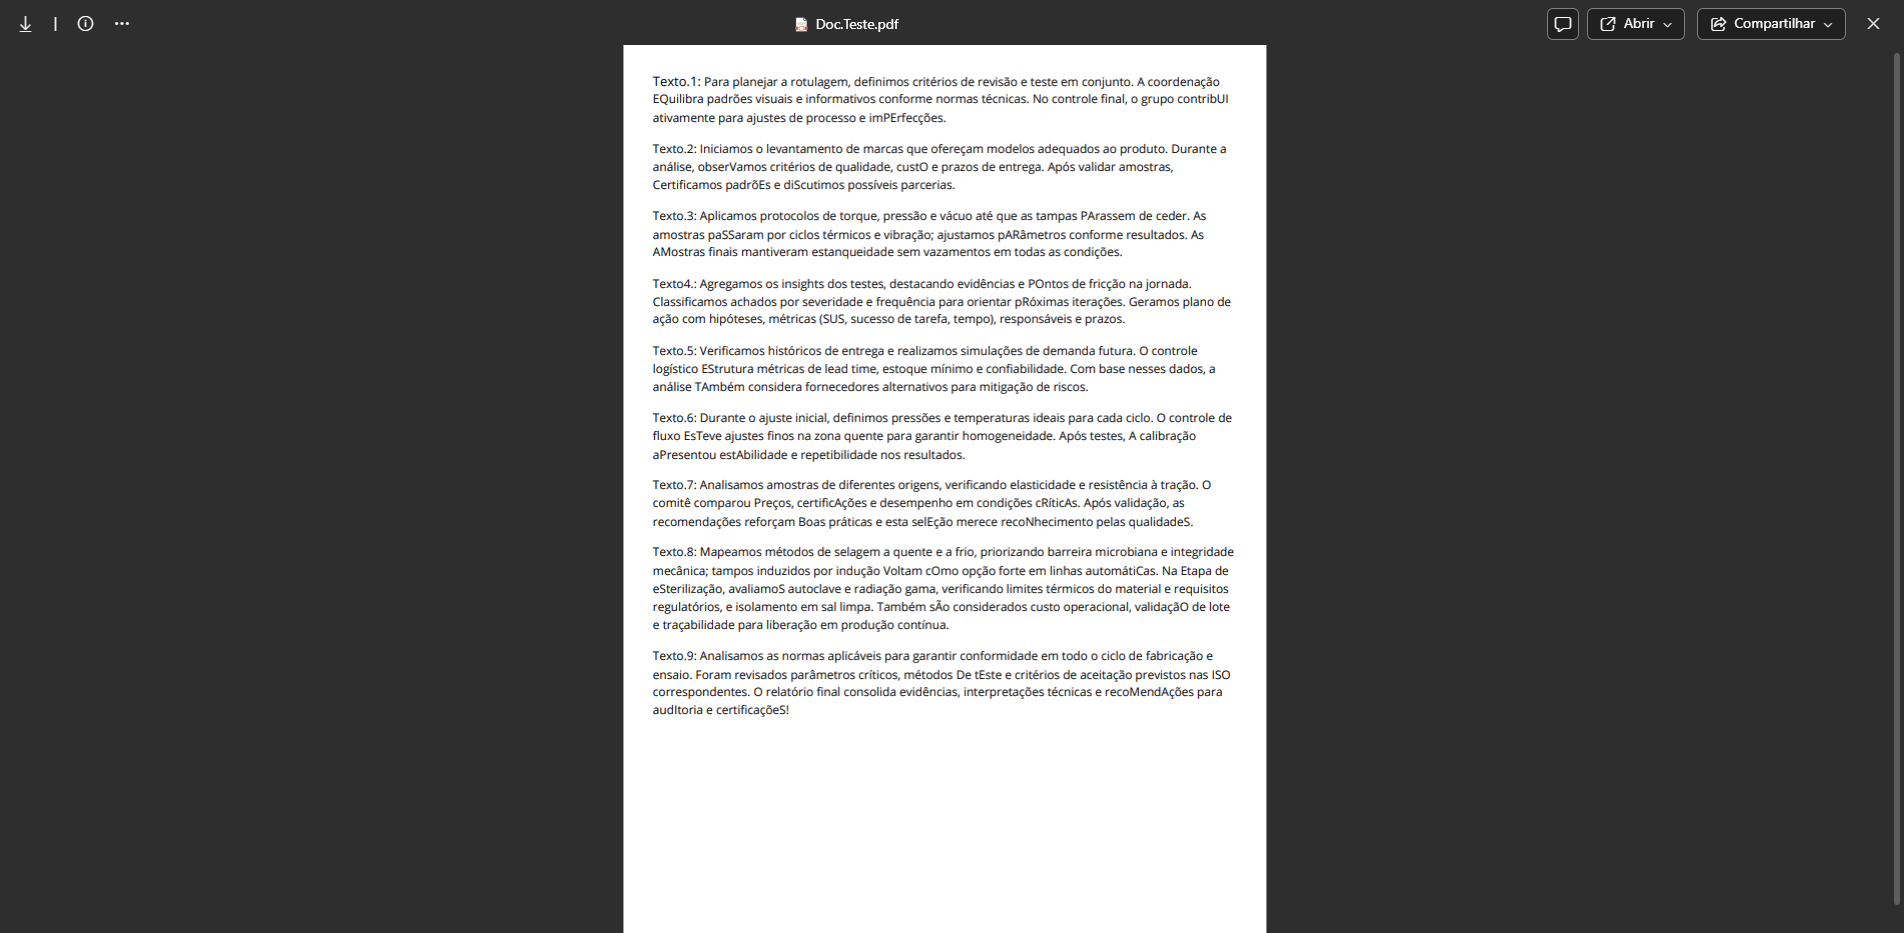
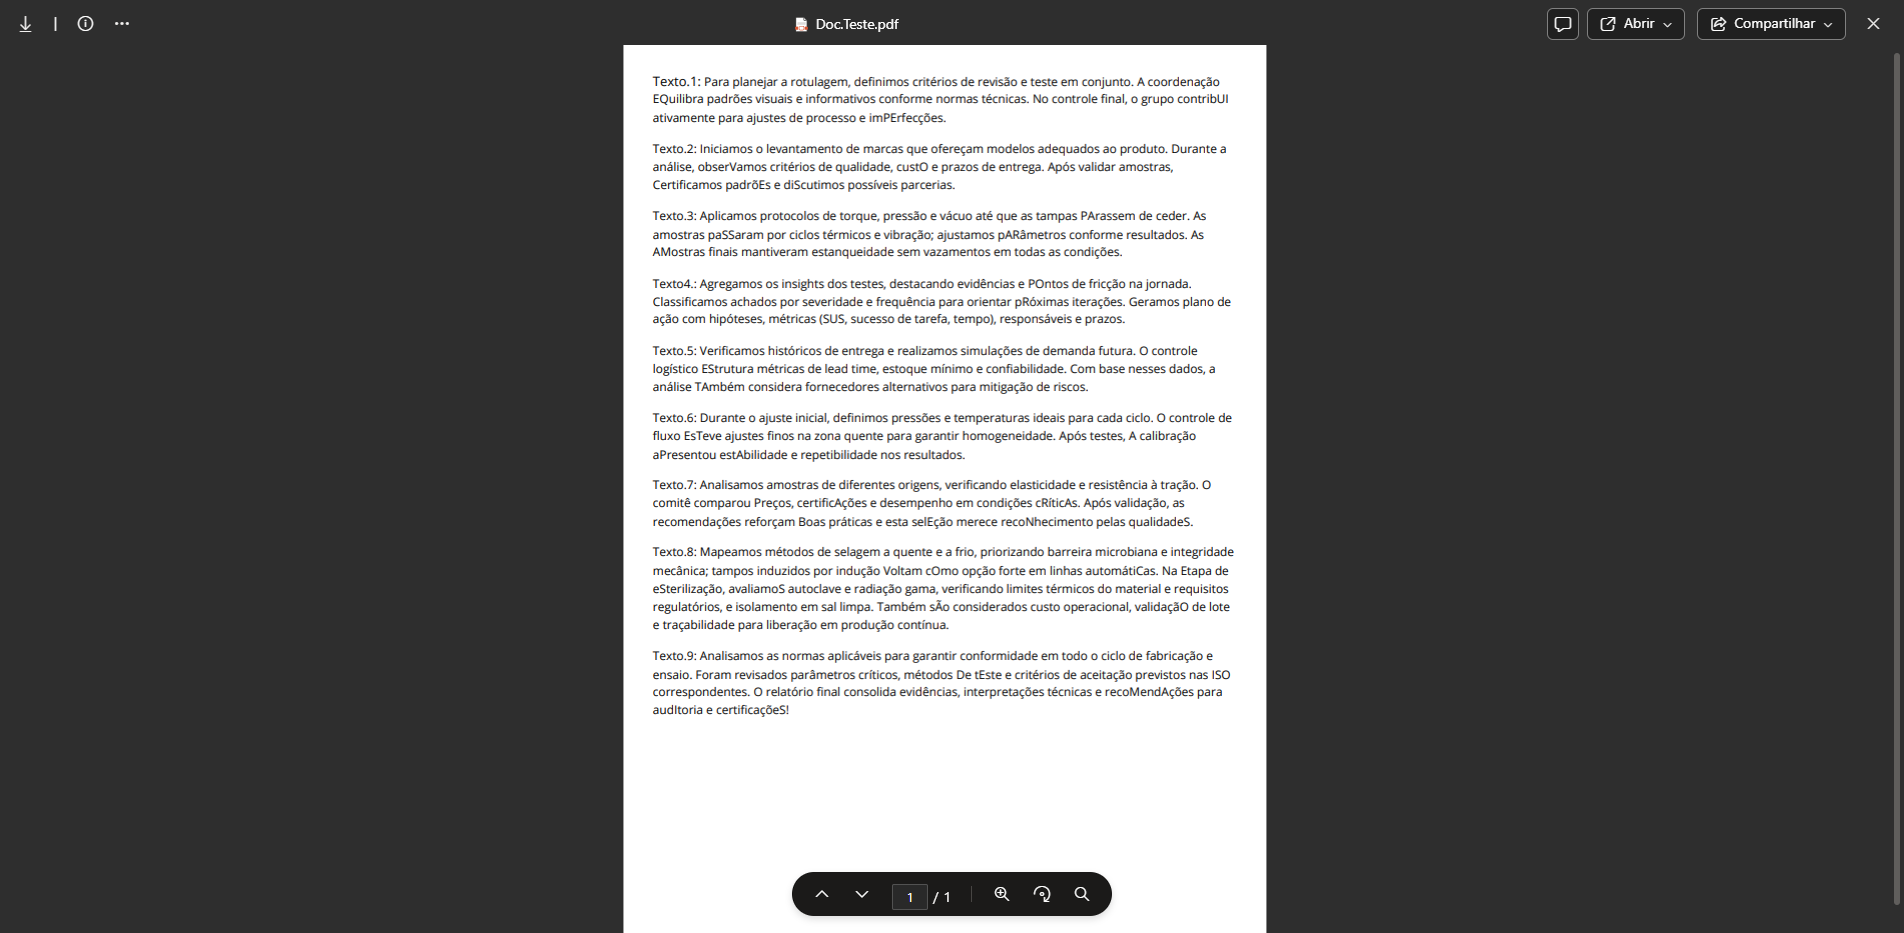
Add rota para o Gantt

Changed region(s): [[0.4028, 0.9325, 0.5888, 0.9946]]

diff --git a/backend/files.py b/backend/files.py
@@ -371,8 +371,8 @@ def get_data_sheet(id_file):
                     if user_info:
                         task['responsible'] = f"{user_info[0].get('first_name', '')} {user_info[0].get('last_name', '')}".strip()
 
-                data = calculate_delay(data)
-                return jsonify({'dados': data}), 200
+            data = calculate_delay(data)
+            return jsonify({'dados': data}), 200
 
         else:
             data: list[dict] = consultaSQL(
@@ -559,10 +559,10 @@ def update_add_row(id_file: str, num: int):
                 colunas_dados=update_args
             )
 
-        return jsonify({
-            "mensagem": "Linha atualizada com sucesso.",
-            "updated": update_args
-        }), 200
+            return jsonify({
+                "mensagem": "Linha atualizada com sucesso.",
+                "updated": update_args
+            }), 200
 
     except Exception as error:
         print(f"Erro ao atualizar linha: {error}")
@@ -980,7 +980,7 @@ def get_team_progress():
 
 # Rota para buscar as tarefas atribuídas a um funcionário específico
 @file_bp.route('/employee/tasks/<id_employee>/<id_file>', methods=['GET'])
-def get_employee_tasks(id_employee: str, id_file: str):
+def get_employee_tasks_detail(id_employee: str, id_file: str):
     try:
         user_id = session.get('user_id')
         id_team = session.get('user_team')
@@ -1057,3 +1057,134 @@ def get_employee_tasks(id_employee: str, id_file: str):
         return jsonify({"mensagem": f"Ocorreu um erro."}), 500
 
 
+@file_bp.route('/employee/tasks', methods=['GET'])
+def get_employee_tasks():
+    try:
+        user_id = session.get('user_id')
+        id_team = session.get('user_team')
+
+        if (not user_id or not id_team) or (user_id is None or id_team is None):
+            return jsonify({"mensagem": "Acesso negado. Por favor, faça login."}), 401
+
+        # Buscar todas as tarefas atribuídas ao funcionário na equipe
+        tarefas: list[dict] = consultaSQL(
+            'SELECT', 'SHEETS',
+            where={'user_id': user_id},
+            campo={'JOIN ON': ['PROJECTS', 'id_file']},
+            colunas_dados={
+                'num': None,
+                'name': None,
+                'status': None,
+                'duration': None,
+                'conclusion': None,
+                'start_date': None,
+                'deadline': None,
+                'end_date': None,
+                'project_name': None,
+                'SQL:SHEETS.id_file AS id_file': None
+            }
+        )
+
+        if not tarefas:
+            return jsonify({"mensagem": "Nenhuma tarefa encontrada para este funcionário."}), 404
+
+        #print(f"Tarefas encontradas para o funcionário '{user_id}': {tarefas}")
+
+        tarefas = calculate_delay(tarefas)
+
+        return jsonify({
+            "tasks": tarefas
+        }), 200
+
+    except Exception as error:
+        print(f"Erro ao buscar tarefas do funcionário: {error}")
+        return jsonify({"mensagem": f"Ocorreu um erro."}), 500
+
+
+@file_bp.route('/employee/tasks/update/<id_file>/<int:num>', methods=['PATCH'])
+def update_employee_task(id_file: str, num: int):
+    try:
+        user_id = session.get('user_id')
+        id_team = session.get('user_team')
+
+        if (not user_id or not id_team) or (user_id is None or id_team is None):
+            return jsonify({"mensagem": "Acesso negado. Por favor, faça login."}), 401
+
+        data = request.get_json(silent=True) or {} # Dados enviados na requisição
+
+        print(f"\nDados recebidos para atualizar tarefa {num} do arquivo {id_file}: {data}\n")
+
+        # Campos permitidos para atualização
+        permitidos = {
+            'duration',
+            'conclusion'
+        }
+
+        # Filtra apenas os campos permitidos
+        update_args: dict = {}
+        for key, value in data.items():
+            if key not in permitidos:
+                print(f"\nCampo inválido para atualização: {key}")
+                return jsonify({"mensagem": f"Campo inválido para atualização: {key}"}), 400
+            else:
+                update_args[key] = value
+
+        if not update_args:
+            return jsonify({"mensagem": "Nada para atualizar."}), 400
+
+        linha_existente = consultaSQL(
+            'SELECT', 'SHEETS', 
+            where={'id_file': id_file, 'num': num, 'user_id': user_id},
+            colunas_dados={'id_file': None, 'num': None}
+        )
+
+        if not linha_existente:
+            try:
+                max_result = consultaSQL(
+                    'SELECT', 'SHEETS', 
+                    where={'id_file': id_file}, 
+                    colunas_dados={},
+                    campo={'MAX': 'num'}
+                )
+
+                max_num: int = 0
+                if isinstance(max_result, list) and max_result:
+                    # chave pode ser 'MAX(num)' dependendo do SELECT
+                    row = max_result[0]
+                    max_num = int(row.get('MAX(num)', 0) or 0) # Se for None, usa 0
+            except Exception:
+                max_num = 0
+            
+            novo_num: int = max_num + 1
+
+            consultaSQL(
+                'INSERT', 'SHEETS',
+                colunas_dados= {
+                    'id_file': id_file,
+                    'num': novo_num,
+                    'duration': update_args.get('duration', '').replace(' dias', ''),
+                    'conclusion': update_args.get('conclusion', 0),
+                    'user_id': update_args.get('user_id', '')
+                }
+            )
+
+            return jsonify({
+                "mensagem": "Linha inserida com sucesso.",
+                "inserted": {**update_args, 'num': novo_num}
+            }), 201
+        else:
+            # Executa o UPDATE na linha alvo (chave: id_file + num atual)
+            consultaSQL(
+                'UPDATE', 'SHEETS', 
+                where={'id_file': id_file, 'num': num, 'user_id': user_id},
+                colunas_dados=update_args
+            )
+
+            return jsonify({
+                "mensagem": "Tarefa atualizada com sucesso.",
+                "updated": update_args
+            }), 200
+
+    except Exception as error:
+        print(f"Erro ao atualizar tarefa: {error}")
+        return jsonify({"mensagem": f"Ocorreu um erro."}), 500

diff --git a/chatbotV8/search.py b/chatbotV8/search.py
@@ -2,8 +2,11 @@ from selenium.webdriver.chrome.options import Options
 from selenium import webdriver
 from pathlib import Path
 from PIL import Image
+import numpy as np
 import pytesseract
 import time
+import cv2
+import os
 
 """ Script para capturar uma screenshot de uma página web e extrair texto dela usando OCR. 
     Requisitos:
@@ -23,6 +26,7 @@ OUTPUT_DIR.mkdir(parents=True, exist_ok=True)
 
 def get_screenshot(url: str) -> str:
     """ Captura uma screenshot da página web na URL fornecida e salva como imagem. """
+
     # Configurar o Selenium WebDriver para usar o Chrome em modo headless
     options = Options() # Configurações do Chrome
     options.add_argument("--headless=new") # Executa o Chrome em modo headless (sem interface gráfica)
@@ -32,11 +36,6 @@ def get_screenshot(url: str) -> str:
     driver.get(url) # Navega até a URL fornecida
 
     time.sleep(10)  # Espera a página carregar completamente
-    
-    # TODO: Salvar o nome da screenshot como o link do arquivo
-    # E fazer verificação se a imagem com o esse nome já existe
-    # Se não existir, salvar a imagem
-    # Se existir, abre a imagem existente
 
     screenshot_path = OUTPUT_DIR / f"{normalize_url(url)}.png" # Caminho para salvar a screenshot
     driver.save_screenshot(str(screenshot_path)) # Captura e salva a screenshot
@@ -49,11 +48,27 @@ def extract_text_from_image(url: str) -> None:
     # Capturar a screenshot da página web
     image_path = get_screenshot(url)
 
+    config_tesseract = f'--psm 6'
+
+    # Normaliza o caminho da imagem para evitar problemas com caracteres especiais
+    image_path = os.path.normpath(str(image_path))
+
+    # Verifica se a imagem foi carregada corretamente
+    if not os.path.exists(image_path):
+        print(f"A imagem {image_path} não foi encontrada.")
+        return
+
+    # Lê a imagem usando OpenCV
+    img = cv2.imdecode(np.fromfile(image_path, dtype=np.uint8), cv2.IMREAD_COLOR)
+
+    # Converte a imagem para escala de cinza
+    gray = cv2.cvtColor(img, cv2.COLOR_BGR2GRAY)
+
     # Usar o pytesseract para extrair texto da imagem
-    texto = pytesseract.image_to_string(Image.open(image_path), lang="por").strip()
-    
-    print("\nTexto extraído da imagem:\n")
-    print(texto)
+    texto = pytesseract.image_to_string(gray, lang="por", config=config_tesseract).strip()
+
+    #print("\nTexto extraído da imagem:\n")
+    #print(texto)
 
     # Salvar o texto extraído em um arquivo .txt
     out_txt = OUTPUT_DIR / f"{normalize_url(url)}.txt"
@@ -62,6 +77,8 @@ def extract_text_from_image(url: str) -> None:
 
     # Depois de extrair o texto, removemos a imagem para economizar espaço
     #Path(image_path).unlink() # Descomentar, faz com que a imagem seja deletada após o processamento
+
+#TODO: Adicionar função para fazer o download do arquivo a partir do link fornecido
 
 def normalize_url(url: str) -> str:
     return url.replace('https:', '').replace('|', '_').replace('/', '_').replace(':', '_').replace('<', '_').replace('>', '_').replace('?', '_').replace('*', '_').replace('""', '_')
